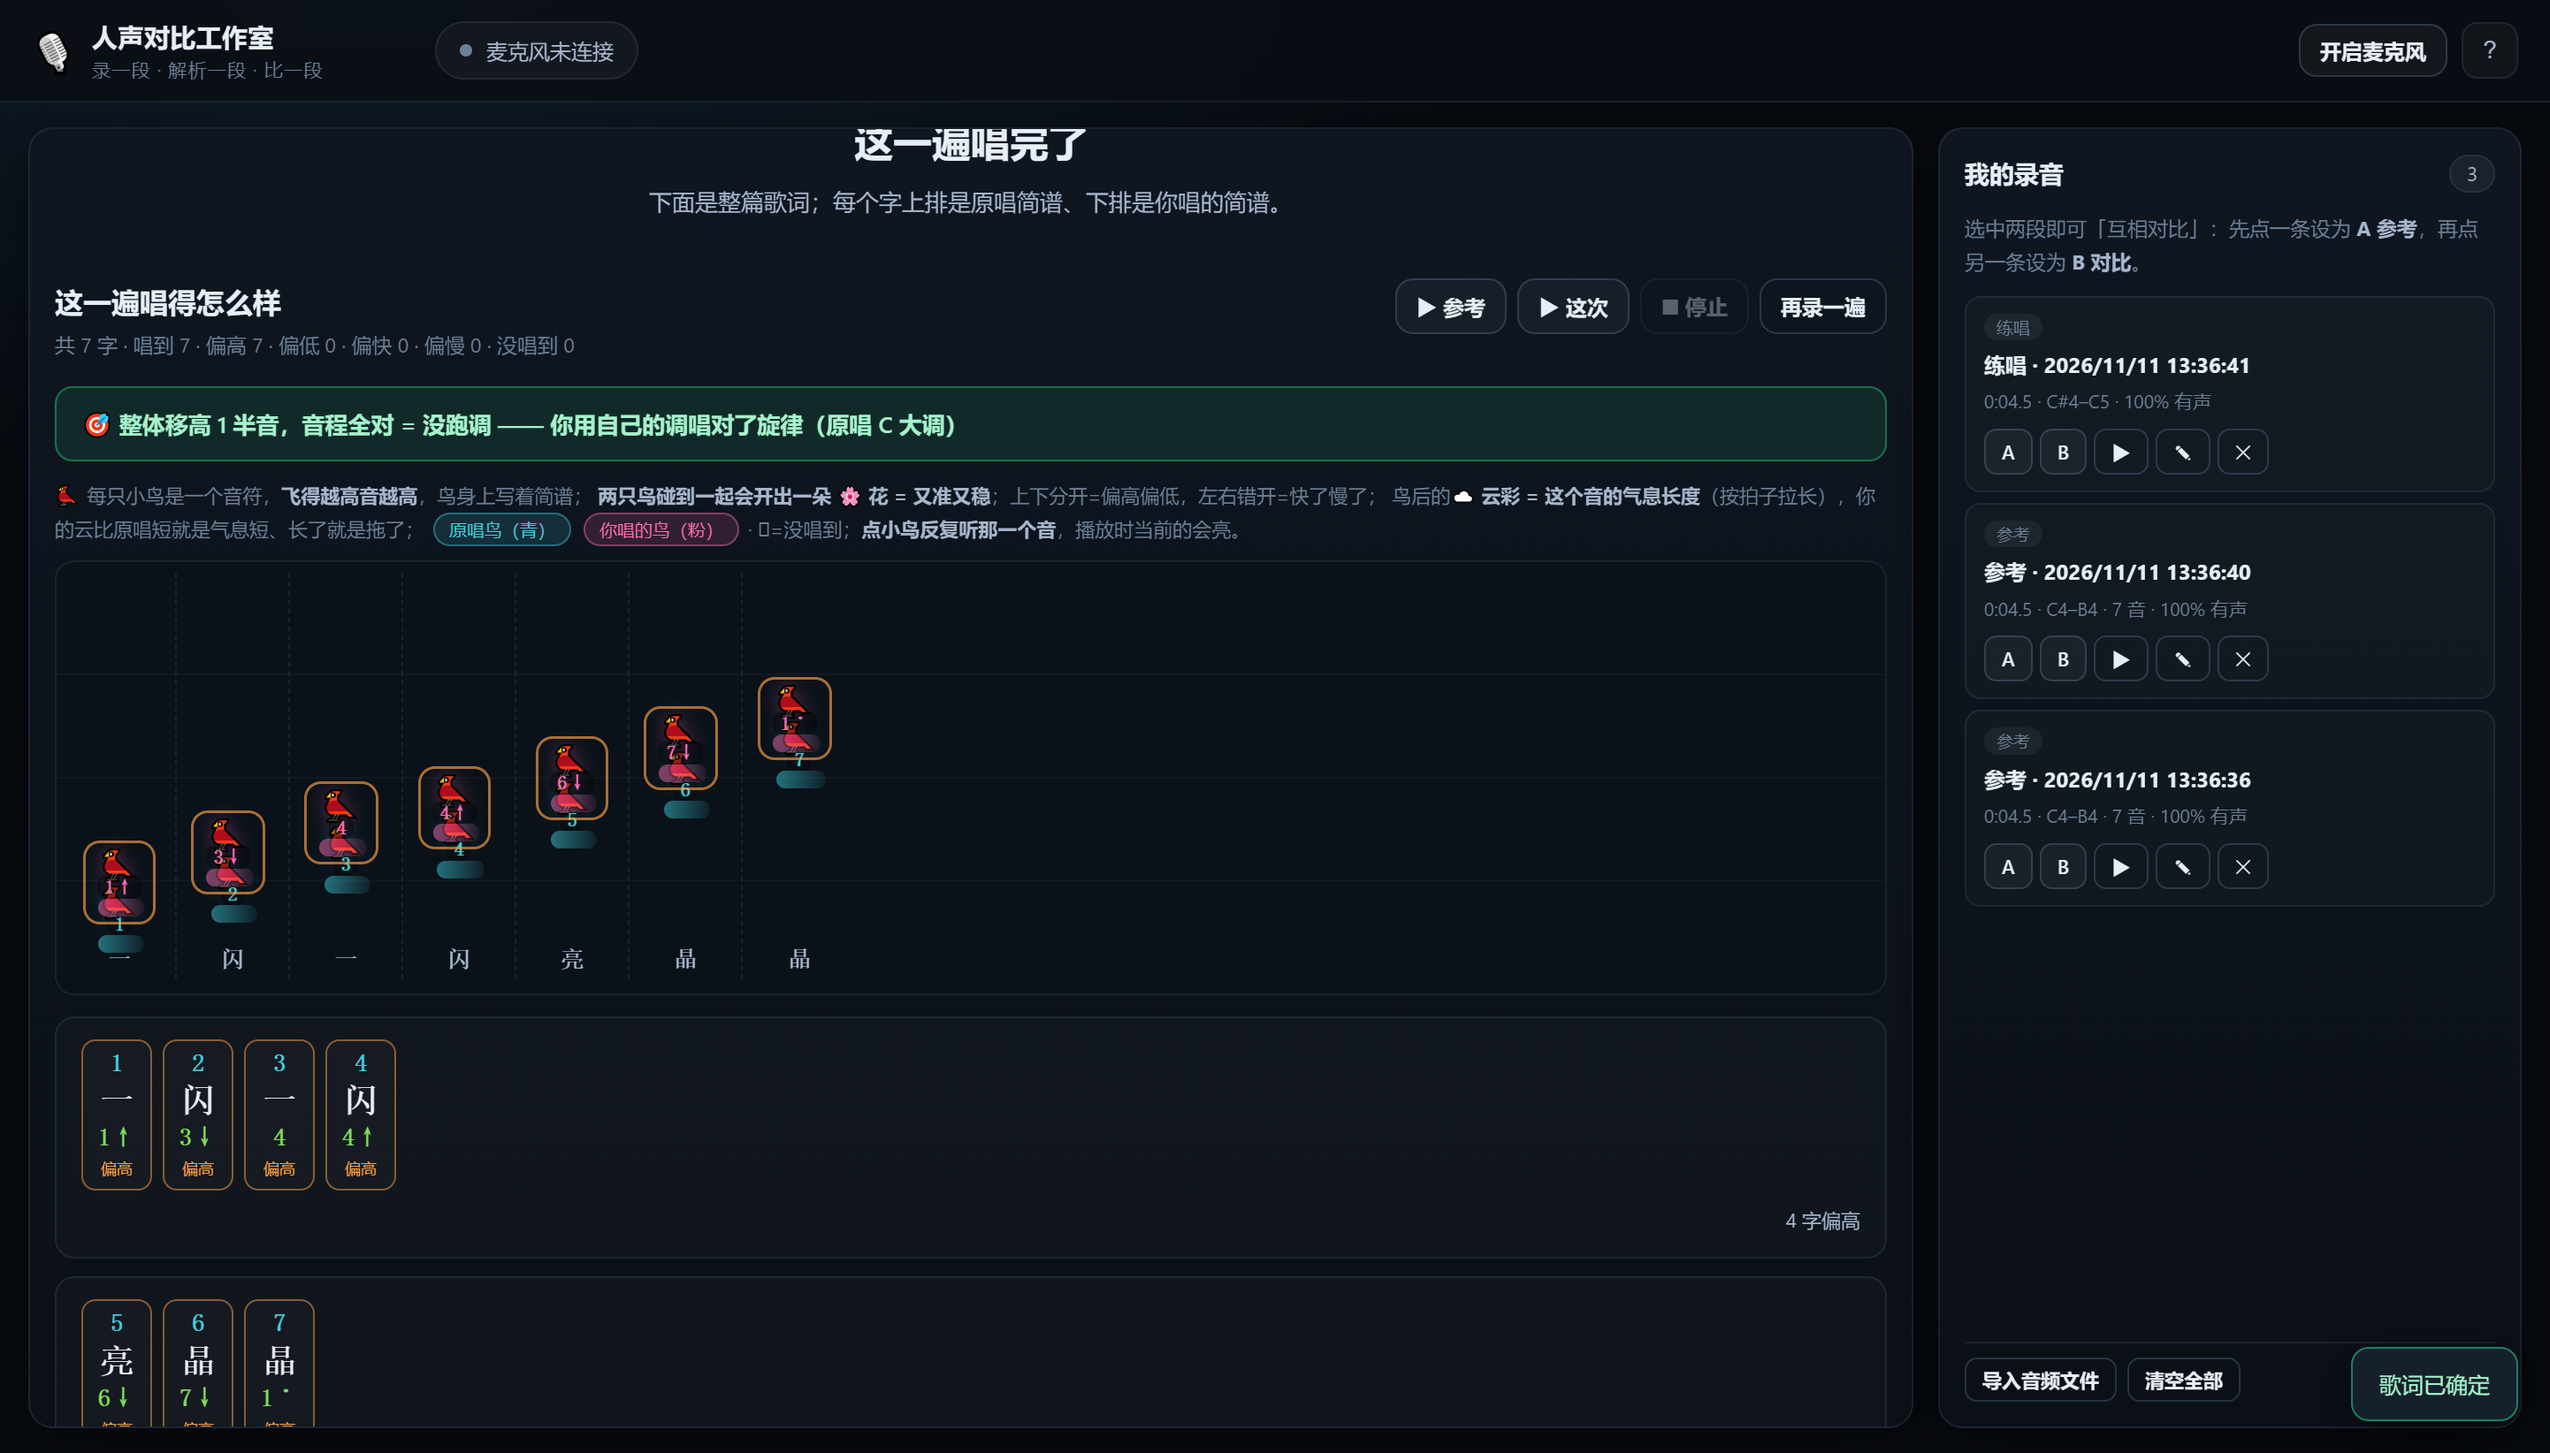
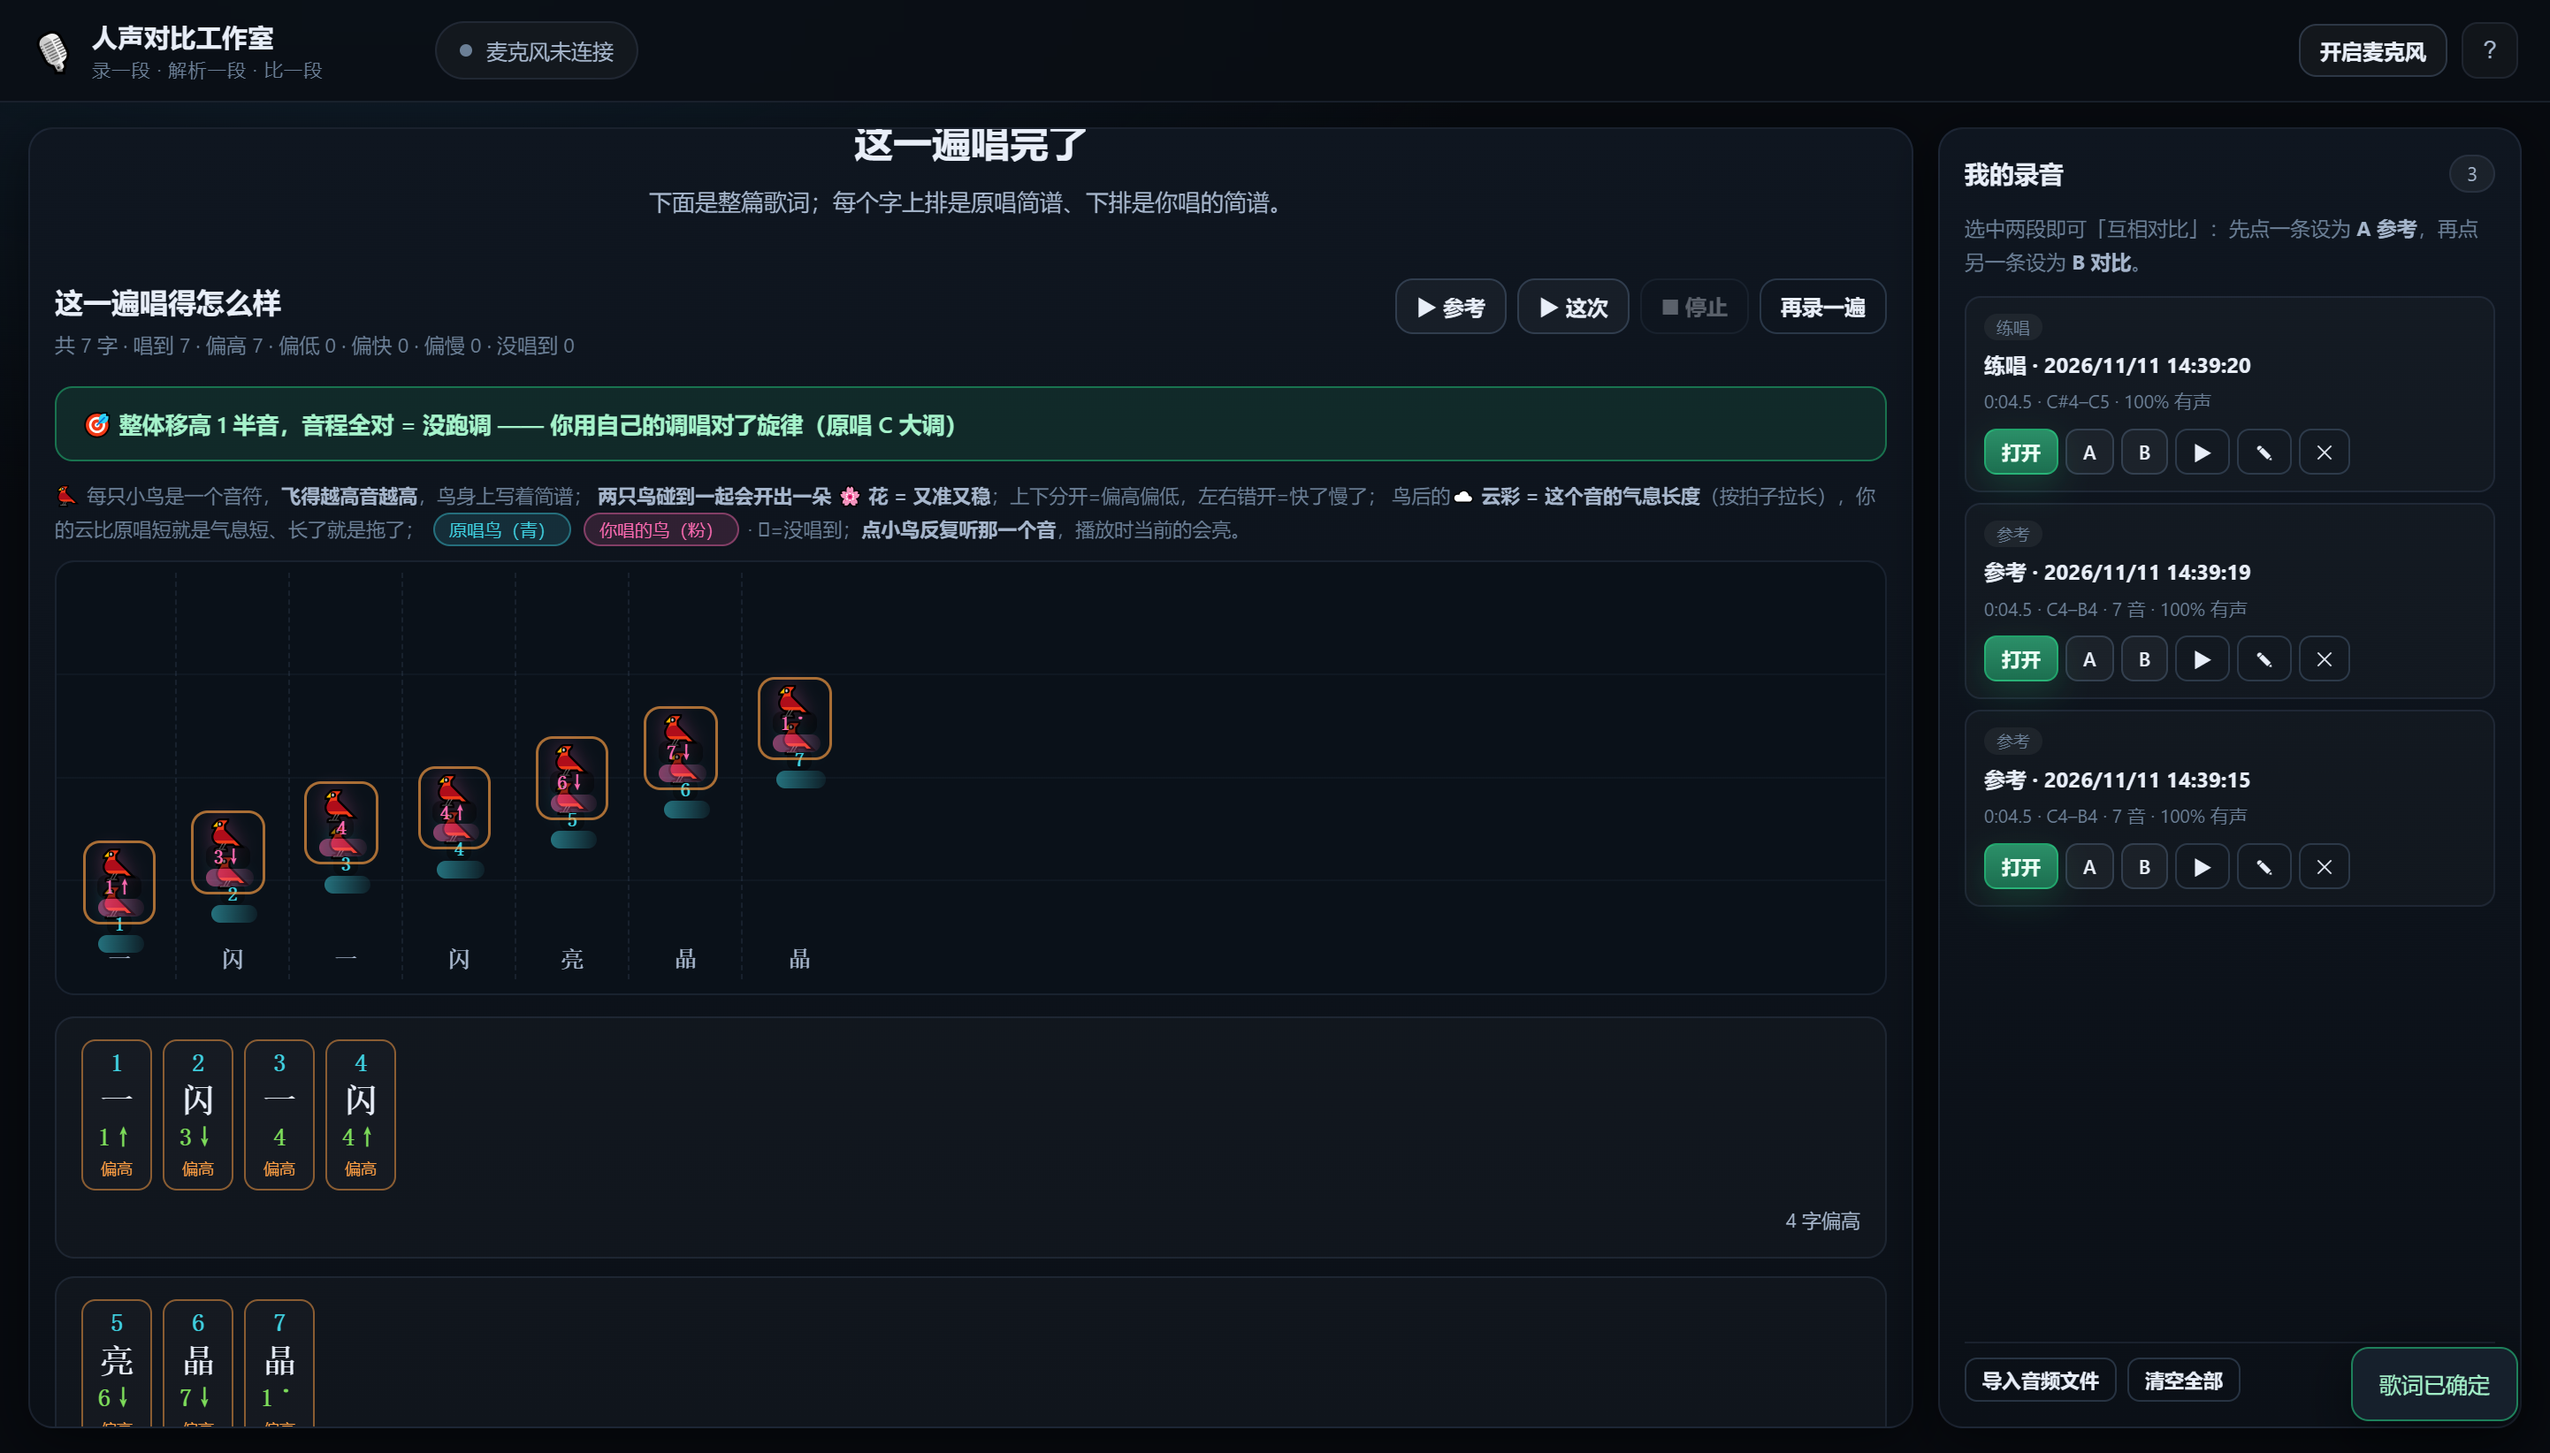
feat: 历史记录可点开(恢复原声/歌词/谱子/练唱结果); 打开时自动校正老录音时间轴并写回——旧录音重放也不再错位

Changed region(s): [[0.7802, 0.2792, 0.8738, 0.3412], [0.7802, 0.5584, 0.905, 0.6204], [0.7802, 0.4343, 0.905, 0.4964]]

diff --git a/web/js/app.js b/web/js/app.js
@@ -29,7 +29,7 @@ import { uid, fmtTime, clamp } from './util.js';
 import {
   saveVocal, listVocals, getVocal, getVocalAudio,
   renameVocal, deleteVocal, clearVocals, vocalSubtitle,
-  saveVocalSnapshot, getVocalSnapshot,
+  saveVocalSnapshot, getVocalSnapshot, rewriteFrames,
 } from './history.js';
 
 /* ══════════════════ 状态 ══════════════════ */
@@ -1174,6 +1174,133 @@ async function playResultAudio(which) {
   tick();
 }
 
+/* ══════════════════ 历史：打开 / 时间轴自愈 ══════════════════ */
+
+/**
+ * 用录音音频校正一条历史记录的帧时间轴（老录音自愈）。
+ *
+ * 旧版把 AudioContext 绝对时间写进了帧；现在以【音频为真相】：
+ *   - 帧时间 = 相对首帧（和音频都从按下录音起算，只差首采样那一小段）
+ *   - 再用 RMS 包络互相关求出剩余起点差，把帧整体平移
+ * 校正后写回 IndexedDB，以后打开就是对的。
+ *
+ * @param {Array} frames 原始帧
+ * @param {Blob|null} blob 对应音频
+ * @returns {{frames:Array, offset:number, fixed:boolean}}
+ */
+async function healFrames(frames, blob) {
+  if (!frames?.length) return { frames: [], offset: 0, fixed: false };
+  const absLike = frames[0].t > 60;   // 绝对时间戳（>60s）说明是老数据
+  let out = frames.map((f) => ({ ...f }));
+
+  // ① 绝对时间 → 相对时间
+  if (absLike) {
+    const t0 = frames[0].t;
+    out = out.map((f) => ({ ...f, t: f.t - t0 }));
+  }
+  // ② 再按音频包络精修起点（老数据和新数据都能受益）
+  let offset = 0;
+  if (blob) {
+    try {
+      if (!S.engine) S.engine = new AudioEngine();
+      await S.engine.ensureContext();
+      const buf = await decodeFile(S.engine.ctx, blob);
+      const est = await estimateAudioStartOffset(buf, out);
+      if (est.ok && Math.abs(est.offset) > 0.005) {
+        offset = est.offset;
+        out = out.map((f) => ({ ...f, t: f.t + offset }));
+      }
+    } catch { /* 解不了就只做 ① */ }
+  }
+  return { frames: out, offset, fixed: absLike || Math.abs(offset) > 0.005 };
+}
+
+/** 打开一条历史录音：恢复当时的解析卡（歌词/谱子）或练唱结果 */
+async function openVocal(id) {
+  const v = await getVocal(id);
+  if (!v) { toast('这条录音数据缺失', 'err'); return; }
+  showParse('正在打开这段录音…', v.label);
+  const blob = await getVocalAudio(id).catch(() => null);
+  const { frames, offset, fixed } = await healFrames(v.frames, blob);
+  if (fixed) {
+    await rewriteFrames(id, frames).catch(() => {});
+    S.history = await listVocals(); renderHistory();
+  }
+  hideParse();
+  if (offset) console.log(`[历史] ${v.label} 时间轴校正 ${(offset * 1000).toFixed(0)}ms`);
+
+  const snap = v.meta?.snapshot || null;
+
+  // 练唱记录：恢复当时的结果视图（需要它的参考）
+  if (v.role === 'take' && snap?.result) {
+    const refId = snap.refId;
+    const refRec = refId ? await getVocal(refId) : S.refVocal;
+    if (refRec) {
+      const refFrames = refRec.frames && refRec.frames[0]
+        ? (refRec.frames[0].t > 60
+          ? refRec.frames.map((f) => ({ ...f, t: f.t - refRec.frames[0].t }))
+          : refRec.frames)
+        : [];
+      const parsed = parseVocal(refFrames, { title: refRec.label || '参考' });
+      const key = detectKey(parsed.notes);
+      const groups = groupPhrases(parsed.notes);
+      const lyricText = snap.lyricText || placeholderLyrics(groups);
+      const score = buildScore(parsed.notes, key, lyricText,
+        snap.charMap ? { charMap: snap.charMap, lineBreaks: snap.lineBreaks } : {});
+      S.refVocal = { ...refRec, frames: refFrames };
+      S.parsed = parsed; S.key = key; S.groups = groups;
+      S.score = score; S.lyricText = lyricText;
+      S.charMap = snap.charMap || scoreCharMap(score);
+      S.lineBreaks = snap.lineBreaks || null;
+      S.lyricsConfirmed = !!snap.confirmed;
+      S.refBlob = await getVocalAudio(refId).catch(() => null);
+      S.refAudioOffset = 0;
+      // 用存下的逐字结果直接重建结果视图
+      const r = snap.result;
+      S.lastPractice = {
+        words: r.words, summary: r.summary, align: r.align,
+        transposition: r.transposition, byLine: groupWordsByLine(r.words),
+      };
+      S.lastPair = { a: refId || null, b: id };
+      renderResult();
+      S.phase = 'result';
+      setStep(3);
+      toast(fixed ? '已打开（时间轴已校正）' : '已打开这一遍练唱', 'ok');
+      return;
+    }
+  }
+
+  // 参考记录 / 无结果快照：恢复解析卡
+  const parsed = parseVocal(frames, { title: v.label });
+  if (parsed.silent) { toast('这段几乎没检测到人声', 'err'); return; }
+  const key = detectKey(parsed.notes);
+  const groups = groupPhrases(parsed.notes);
+  S.refVocal = { ...v, frames };
+  S.refBlob = blob;
+  S.refAudioOffset = 0;   // healFrames 已把帧对齐到音频，无需再补
+  S.parsed = parsed;
+  S.key = key;
+  S.groups = groups;
+  const lyricText = snap?.lyricText || placeholderLyrics(groups);
+  S.lyricText = lyricText;
+  S.lyricsDraft = lyricText;
+  S.charMap = snap?.charMap || null;
+  S.lineBreaks = snap?.lineBreaks || null;
+  S.lyricsConfirmed = !!snap?.confirmed;
+  S.score = buildScore(parsed.notes, key, lyricText,
+    S.charMap ? { charMap: S.charMap, lineBreaks: S.lineBreaks } : {});
+  if (!S.charMap) S.charMap = scoreCharMap(S.score);
+  S.lastPair.a = id;
+  renderParsedCard(
+    fixed ? '✓ 已从历史打开（时间轴已校正，回放亮格与练唱提示都会对齐）'
+      : '✓ 已从历史打开',
+    'ok'
+  );
+  S.phase = 'ready';
+  setStep(3);
+  toast(fixed ? '已打开，时间轴已自动校正' : '已打开这段录音', 'ok');
+}
+
 /* ══════════════════ 历史：任意两段互比 ══════════════════ */
 
 function renderHistory() {
@@ -1197,6 +1324,7 @@ function renderHistory() {
           <small>${escapeHtml(vocalSubtitle(v))}</small>
         </div>
         <div class="hi-actions">
+          <button class="btn tiny primary" data-act="open" title="打开：看这段的原声/歌词/谱子/结果">打开</button>
           <button class="btn tiny" data-act="a" title="设为 A 参考">A</button>
           <button class="btn tiny" data-act="b" title="设为 B 对比">B</button>
           <button class="btn tiny ghost" data-act="play" title="播放">▶</button>
@@ -1206,6 +1334,12 @@ function renderHistory() {
       card.querySelectorAll('button').forEach((b) => {
         b.addEventListener('click', (e) => { e.stopPropagation(); onHistAction(b.dataset.act, v); });
       });
+      // 点卡片任意空白处 = 打开这段（和"打开"按钮等价，最好点）
+      card.addEventListener('click', (e) => {
+        if (e.target.closest('button')) return;
+        onHistAction('open', v).catch((err) => toast('打开失败：' + err.message, 'err', 5000));
+      });
+      card.style.cursor = 'pointer';
       card.addEventListener('dblclick', () => onHistAction('rename', v));
       el.histList.appendChild(card);
     }
@@ -1214,6 +1348,7 @@ function renderHistory() {
 }
 
 async function onHistAction(act, v) {
+  if (act === 'open') { await openVocal(v.id); return; }
   if (act === 'a') { S.pair.a = v.id; if (S.pair.b === v.id) S.pair.b = null; }
   else if (act === 'b') { S.pair.b = v.id; if (S.pair.a === v.id) S.pair.a = null; }
   else if (act === 'play') { await playVocal(v.id); return; }
@@ -1454,6 +1589,10 @@ function installTestHooks() {
       speechOk: speechAvailable(),
       running: !!dictate,
     }),
+    // 历史打开 / 时间轴自愈
+    async openVocal(id) { await openVocal(id); return { phase: S.phase, lyricText: S.lyricText, lines: S.score?.lines?.length }; },
+    healFrames: (frames, blob) => healFrames(frames, blob),
+    hasOpenBtn: () => !!document.querySelector('.hist-item button[data-act="open"]'),
     setLyrics(text) { if (el.lyricEditor) { el.lyricEditor.value = text; onLyricEdit(); } return S.score; },
     realignLyrics() { return realignLyrics(); },
     confirmLyrics() { return confirmLyrics(); },

diff --git a/web/js/history.js b/web/js/history.js
@@ -110,6 +110,27 @@ export async function listVocals() {
     .sort((a, b) => b.createdAt - a.createdAt);
 }
 
+/**
+ * 重写一条录音的帧时间轴（老录音兼容）。
+ *
+ * 旧版本把 AudioContext 绝对时间存进了帧，下游各自归一导致回放/练唱错位。
+ * 打开历史记录时用这段音频重新对齐：以音频为真相，把帧时间整体平移，
+ * 并把修好的帧写回 IndexedDB，下次打开就是对的。
+ *
+ * @param {string} id
+ * @param {Array} newFrames 修正后的帧（t 从录音起点 0 起算）
+ */
+export async function rewriteFrames(id, newFrames) {
+  const db = await openDB();
+  const store = db.transaction(S_VOCALS, 'readwrite').objectStore(S_VOCALS);
+  const rec = await req2p(store.get(id));
+  if (!rec) return null;
+  rec.packed = packFrames(newFrames);
+  rec.meta = { ...(rec.meta || {}), framesFixed: true };
+  await req2p(store.put(rec));
+  return rec;
+}
+
 /** 取一条完整记录（含 frames） */
 export async function getVocal(id) {
   const db = await openDB();
